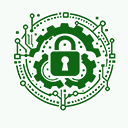
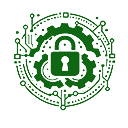
refactor: whats in a name

diff --git a/README.md b/README.md
@@ -4,8 +4,8 @@
 
 [![.NET CI](https://github.com/mrdav30/Chronicler/actions/workflows/dotnet.yml/badge.svg)](https://github.com/mrdav30/Chronicler/actions/workflows/dotnet.yml)
 [![Coverage](https://img.shields.io/badge/dynamic/json?url=https%3A%2F%2Fmrdav30.github.io%2FChronicler%2FSummary.json&query=%24.summary.linecoverage&suffix=%25&label=coverage&color=brightgreen)](https://mrdav30.github.io/Chronicler/)
-[![NuGet](https://img.shields.io/nuget/v/Chronicler.svg)](https://www.nuget.org/packages/Chronicler)
-[![NuGet Downloads](https://img.shields.io/nuget/dt/Chronicler.svg)](https://www.nuget.org/packages/Chronicler)
+[![NuGet](https://img.shields.io/nuget/v/Chronicler.Core.svg)](https://www.nuget.org/packages/Chronicler.Core)
+[![NuGet Downloads](https://img.shields.io/nuget/dt/Chronicler.Core.svg)](https://www.nuget.org/packages/Chronicler.Core)
 [![License](https://img.shields.io/github/license/mrdav30/Chronicler.svg)](https://github.com/mrdav30/Chronicler/blob/main/LICENSE)
 [![Frameworks](https://img.shields.io/badge/frameworks-netstandard2.1%20%7C%20net8.0-512BD4.svg)](https://github.com/mrdav30/Chronicler)
 
@@ -32,7 +32,7 @@ Unlike attribute-only serializers, Chronicler makes each type explicitly own its
 ### NuGet
 
 ```bash
-dotnet add package Chronicler
+dotnet add package Chronicler.Core
 ```
 
 ### Source